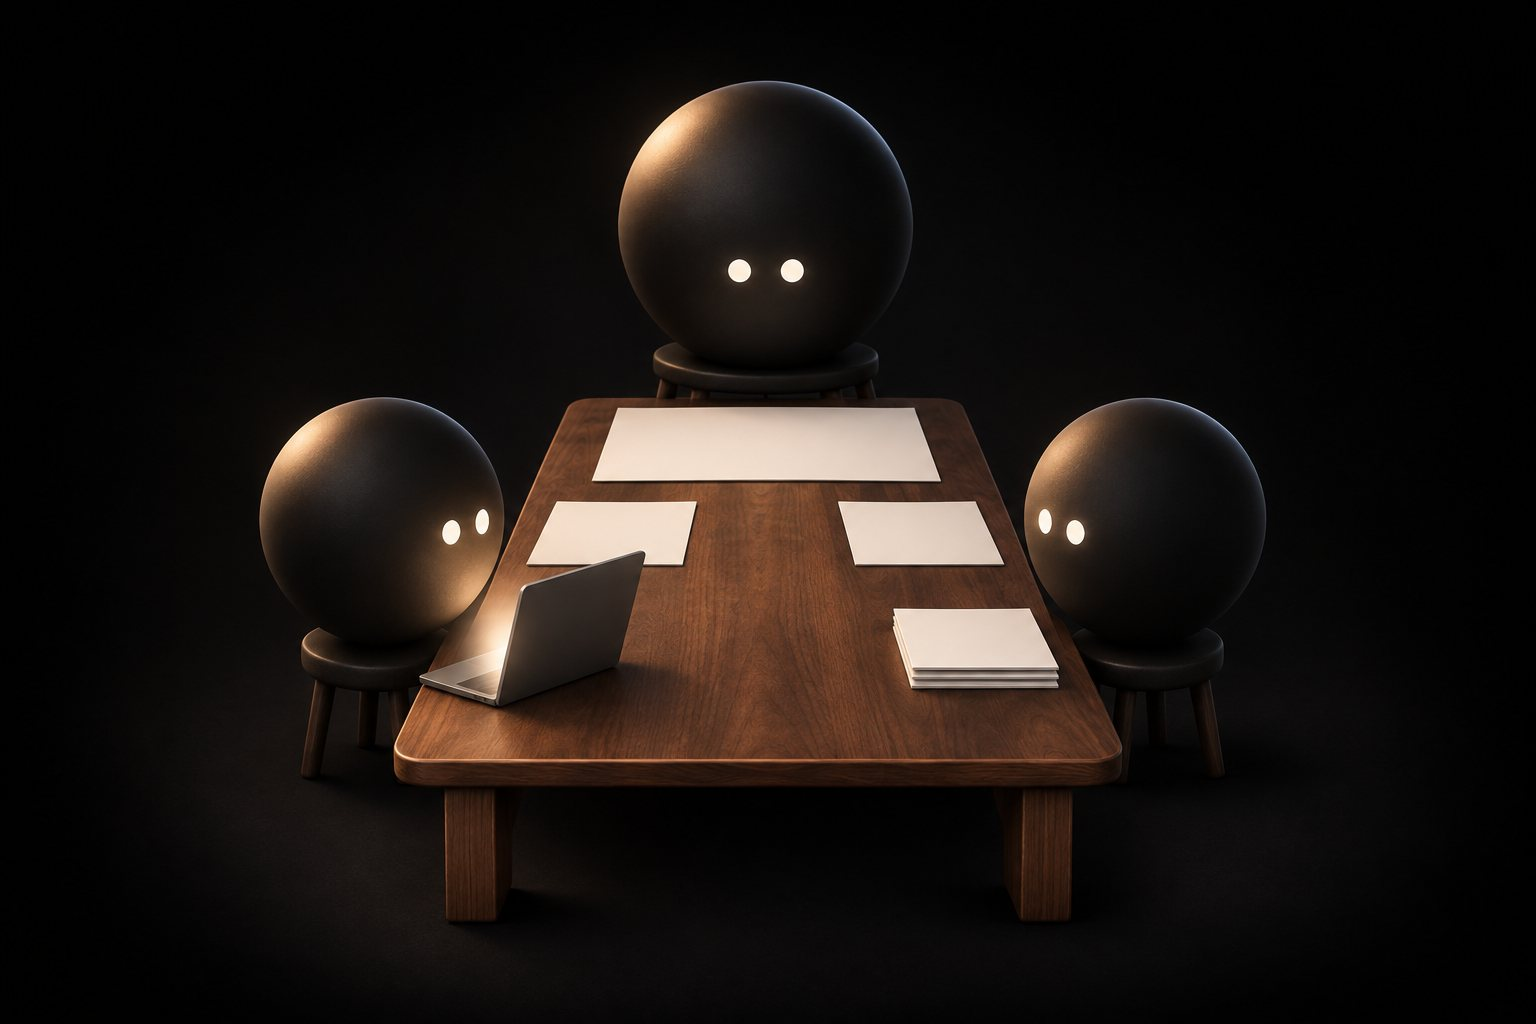
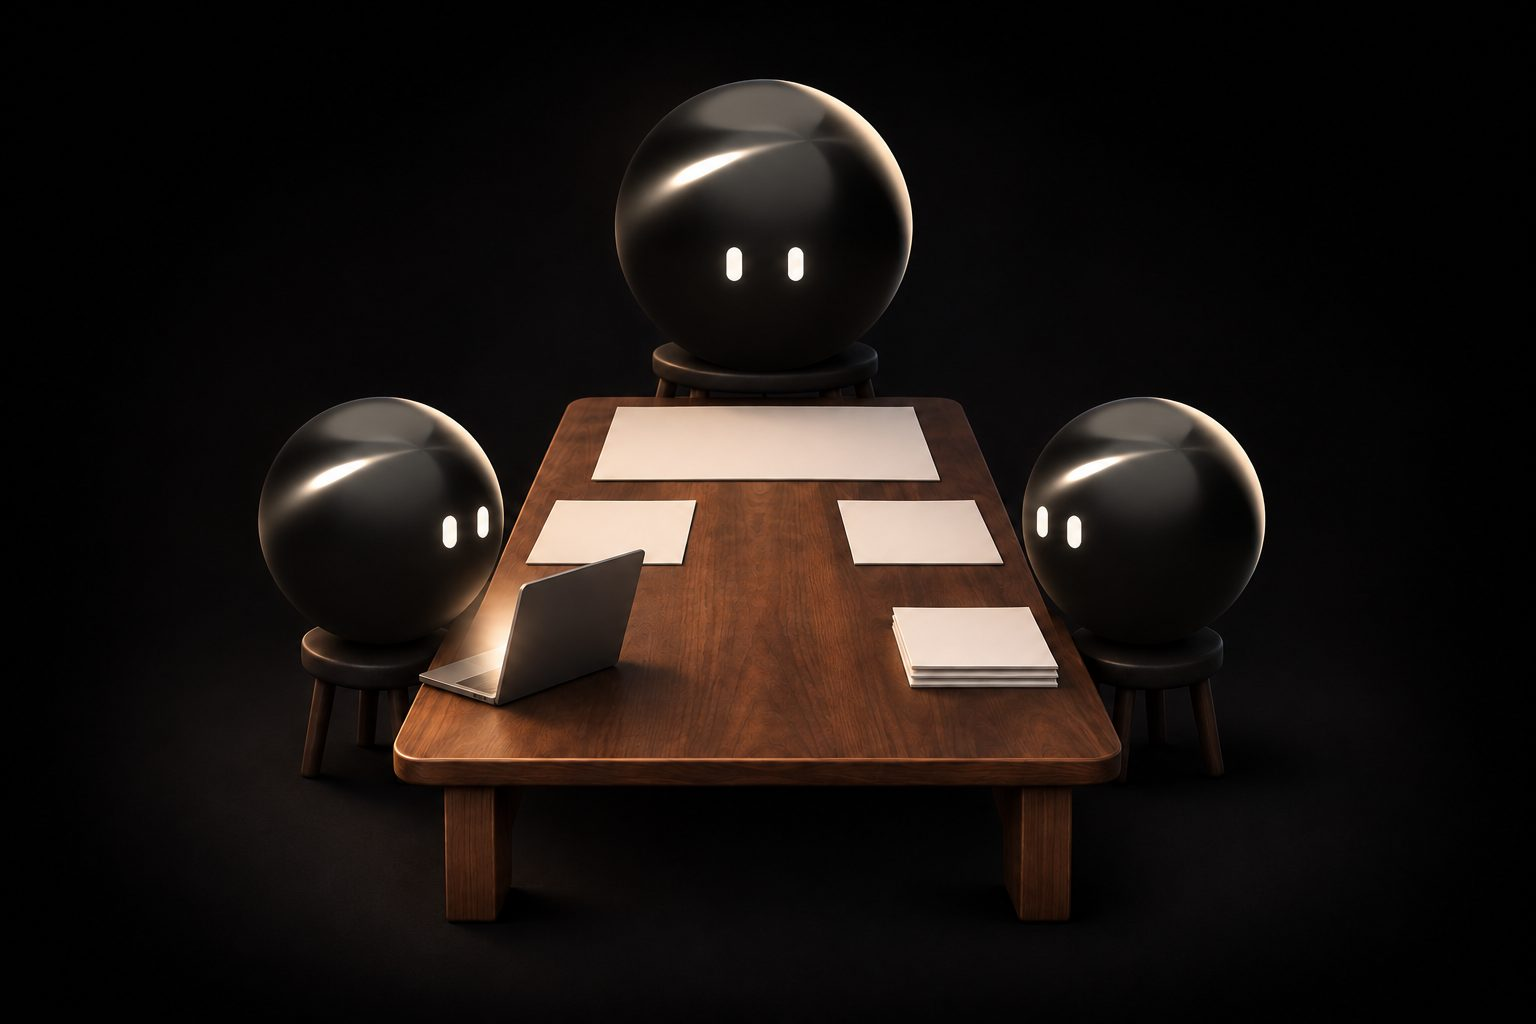
솔리오 첫 팀 고르기 8판: 세 장면의 구를 PC 앱 정본 「구 가」(결을 깎은 검정 금속, 빛줄기 한 줄)와 세로 알약 눈으로 다시 구움, 짜임은 그대로(유호님 11-24 「정본으로 바꿔」). 공통 굽기 지시문 · 사무실 바닥 작은 구 눈도 정본으로

diff --git a/docs/디자인/솔리오_첫계정고르기_20261121/고르기.html b/docs/디자인/솔리오_첫계정고르기_20261121/고르기.html
@@ -447,7 +447,7 @@ function eyes(ctx, x, y, R, mode, gy, blink, a) {
     ctx.beginPath();
     if (mode === 'closed') { ctx.moveTo(cx - er * 1.4, cy + er); ctx.lineTo(cx + er * 1.4, cy + er); ctx.stroke(); }
     else if (mode === 'smile') { ctx.arc(cx, cy + er * 1.3, er * 1.7, Math.PI * 1.18, Math.PI * 1.82); ctx.stroke(); }
-    else { ctx.ellipse(cx, cy, er, Math.max(.3, er * (1 - blink)), 0, 0, Math.PI * 2); ctx.fill(); }
+    else { ctx.ellipse(cx, cy, er, Math.max(.3, er * 1.39 * (1 - blink)), 0, 0, Math.PI * 2); ctx.fill(); }   // 정본 점 눈의 작은 크기 꼴(세로로 조금 긴 점, orb-stage.mjs eyeSd)
   }
 }
 /* 직원 하나의 그림 상태. 차례를 이으면 그 순간의 시각을 적어 두고, 그림은 그 시각부터 천천히 바뀐다 */

diff --git a/docs/디자인/솔리오_첫계정고르기_20261121/README.md b/docs/디자인/솔리오_첫계정고르기_20261121/README.md
@@ -43,6 +43,17 @@
 4. **연결 차례와 자리에 앉는 직원:** 고르고 시작하면 왼쪽에 사무실 바닥(사무실 시안과 같은 일곱 부서와 앞쪽 입구), 오른쪽에 잇는 차례가 나온다. 차례는 팀장 프로그램 설치와 로그인, 다른 프로그램 설치와 로그인, Gemini 키 넣기, 솔리오와 연결이다. 이으면 그 직원이 입구에 나타나고, 마지막 「솔리오와 연결」에서 각자 부서 자리로 한 번 간다. 팀장은 조금 더 크고 이름 옆에 「팀장」이 붙는다. 다 이으면 「사무실 열기」가 켜지고, 열면 직원들이 웃는다. 시안에서는 단추를 누르면 이은 것으로 친다.
 5. **글:** AI를 처음 쓰는 분이 읽는 말로 썼다. OAuth, CLI, MCP, 오케스트레이터 같은 기술 이름은 화면에 쓰지 않는다. 프로그램 이름(Claude Code, Codex)과 Google AI Studio는 차례 제목이나 설명에 쓰고 하는 일을 한 줄로 푼다. 무료 Gemini 키로 보낸 글은 Google이 학습에 쓸 수 있다는 점을 아쉬운 점에 적었다.
 
+## 8판: 구를 정본으로(11-24)
+
+유호님이 사업계획서 심사 시안을 보시고 「솔리오 마스코트가 원래 저거 아니었던거같은데」, 이어 「정본으로 바꿔」라고 하셨다. 6 · 7판 그림의 구는 매끈한 무광 구에 둥근 점 눈이라, PC 앱 정본과 달랐다.
+
+- 세 그림(`그림/claude.jpg` · `gpt.jpg` · `custom.jpg`)을 같은 짜임 그대로 두고 구만 바꿔 다시 구웠다. 몸은 「구 가」(결을 깎은 검정 금속, 빛줄기 한 줄)이고, 눈은 세로 알약 둘이다([결정](../../_ops/결정.md) 11-16 「구의 모습」, [검정 구 시안](../플랫폼_클라이언트_검정구_20261116/README.md)).
+- 원본은 `판/정본_claude_063834.png` · `판/정본_gpt_063541.png` · `판/정본_custom_063704.png`, 지시문은 `판/지시문/정본_*.txt`다. 바꿀 그림을 첫 장, 정본 구 기준 그림 `판/참고/정본구.png`를 둘째 장으로 주었다.
+- 기준 그림은 사업계획서 심사 시안의 블렌더 구(`../솔리오_사업계획서_첫화면_20261123/블렌더/심사무대.py`)에 앱의 점 눈 규격으로 눈을 얹은 것이다.
+- 다음에 구울 때 쓰는 공통 지시문(`판/지시문/공통.txt`)의 구 설명도 정본으로 바꿨다.
+- 연결 화면 사무실 바닥의 작은 구 눈도 앱이 작은 크기에서 쓰는 꼴(세로로 조금 긴 점)로 맞췄다.
+- 8판은 맹검에 내지 않았다.
+
 ## 미학 맹검
 
 1~3판은 네 장 모두 기각이었다. 1판은 기술 이름과 선 그림, 2판은 흔한 다크 모드 틀, 3판은 카드 세 장과 비교표라는 짜임이 지적의 중심이었다. 짜임은 11-23 유호님 「Yes, rebuild it」로 5판에서 무대와 자리에 앉는 직원으로 바꿨다.

diff --git a/docs/디자인/솔리오_사업계획서_첫화면_20261123/README.md b/docs/디자인/솔리오_사업계획서_첫화면_20261123/README.md
@@ -7,7 +7,7 @@
 마스코트는 솔리오의 검정 구다. 11-24 유호님 「솔리오 마스코트가 원래 저거 아니었던거같은데」에 따라 PC 앱의 정본에 맞췄다.
 - 몸은 11-16에 유호님이 고르신 「구 가」다. 비스듬한 축을 둘러 가는 결을 깎은 검정 금속 구이고, 결이 빛을 꼭지를 지나는 한 줄기로 모은다([결정](../../_ops/결정.md) 11-16 「구의 모습」, [검정 구 시안](../플랫폼_클라이언트_검정구_20261116/README.md)).
 - 눈은 앱의 점 눈(`desktop/renderer/orb-stage.mjs`의 `eyeSd`) 그대로다. 평소는 세로로 선 알약이고, 웃음은 ∩, 감음은 ∪, 문제는 짧은 가로줄이다. 눈은 작게, 넓게 벌려, 가운데보다 조금 위에 둔다. 입 · 눈썹 · 볼 · 땀방울과 다른 색은 넣지 않는다. 구가 작게 그려지면 앱처럼 눈을 키우고 조금 벌린다.
-- 그 전 판은 팀 고르기 6 · 7판 그림의 구(무광에 가까운 갈색 도는 구, 둥근 점 눈)를 따랐다. 그 구는 정본과 다르다.
+- 그 전 판은 팀 고르기 6 · 7판 그림의 구(무광에 가까운 갈색 도는 구, 둥근 점 눈)를 따랐다. 그 구는 정본과 달라서, 팀 고르기 그림도 같은 날 정본으로 다시 구웠다(팀 고르기 README 「8판」).
 - 펠트 마스코트(까몽 · 몽글 · 마린)는 쓰지 않았다.
 
 ## 보는 법
